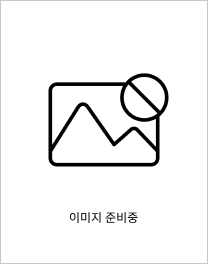
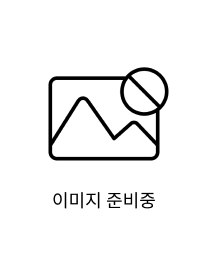
🚚 CHANGE : Change image when there is no thumbnail

Changed region(s): [[0.2308, 0.2424, 0.8365, 0.6364], [0.0, 0.0, 1.0, 1.0], [0.2596, 0.7273, 0.75, 0.8485]]

diff --git a/src/components/CineSuggestion.tsx b/src/components/CineSuggestion.tsx
@@ -1,6 +1,6 @@
 import React, { useRef } from 'react';
 import { Link } from 'react-router-dom';
-import noImg from '../images/no-images.png';
+import noImg from '../images/no-image.png';
 
 interface MovieListProps {
   movie_id?: string | number;
